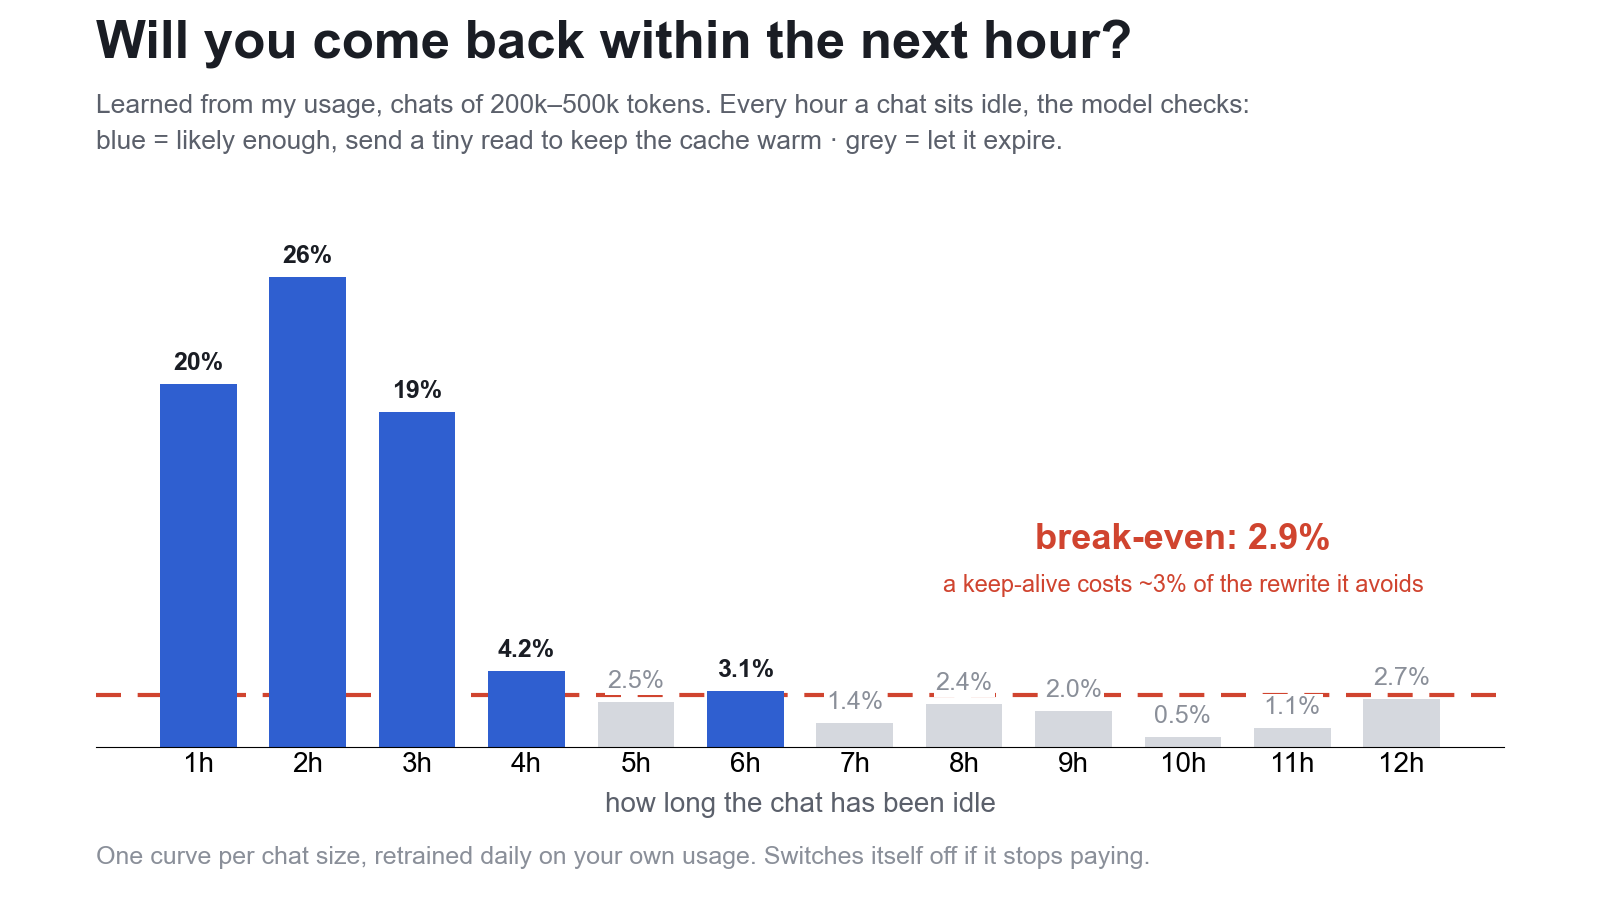
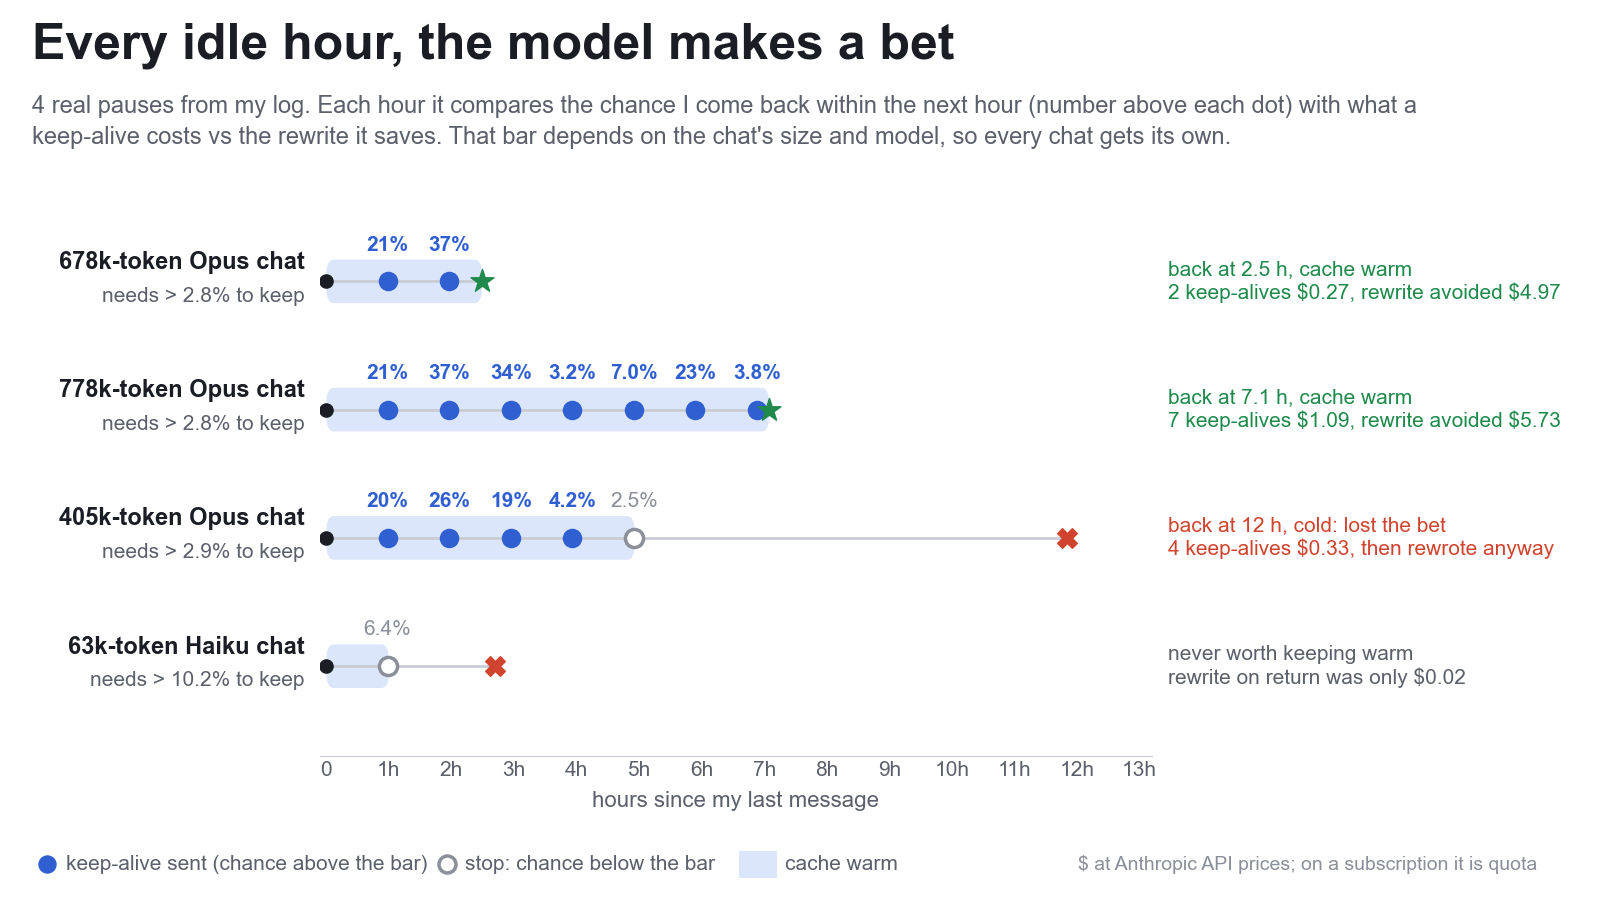
Model chart: decisions for four real pauses over time

diff --git a/README.md b/README.md
@@ -37,7 +37,7 @@ Week by week, the 1-hour cache alone went from 27% less than the 5-minute cache 
 
 The replay models each request's cache read from its real size and the time since the previous one; checked against the reads actually logged, it is within 0.6% for 5-minute-era traffic and 0.1% for 1-hour-era traffic. Live since switching (44 h): 16% less than the 5-minute replay, 8% less than the 1-hour replay. On a subscription this is quota, not dollars; Anthropic doesn't publish exactly how cache tokens count against limits.
 
-![Will you come back within the next hour?](docs/model.png)
+![Every idle hour, the model makes a bet: four real pauses](docs/model.png)
 
 Details, methods and the things that did not work: [analysis/RESULTS.md](analysis/RESULTS.md).
 
